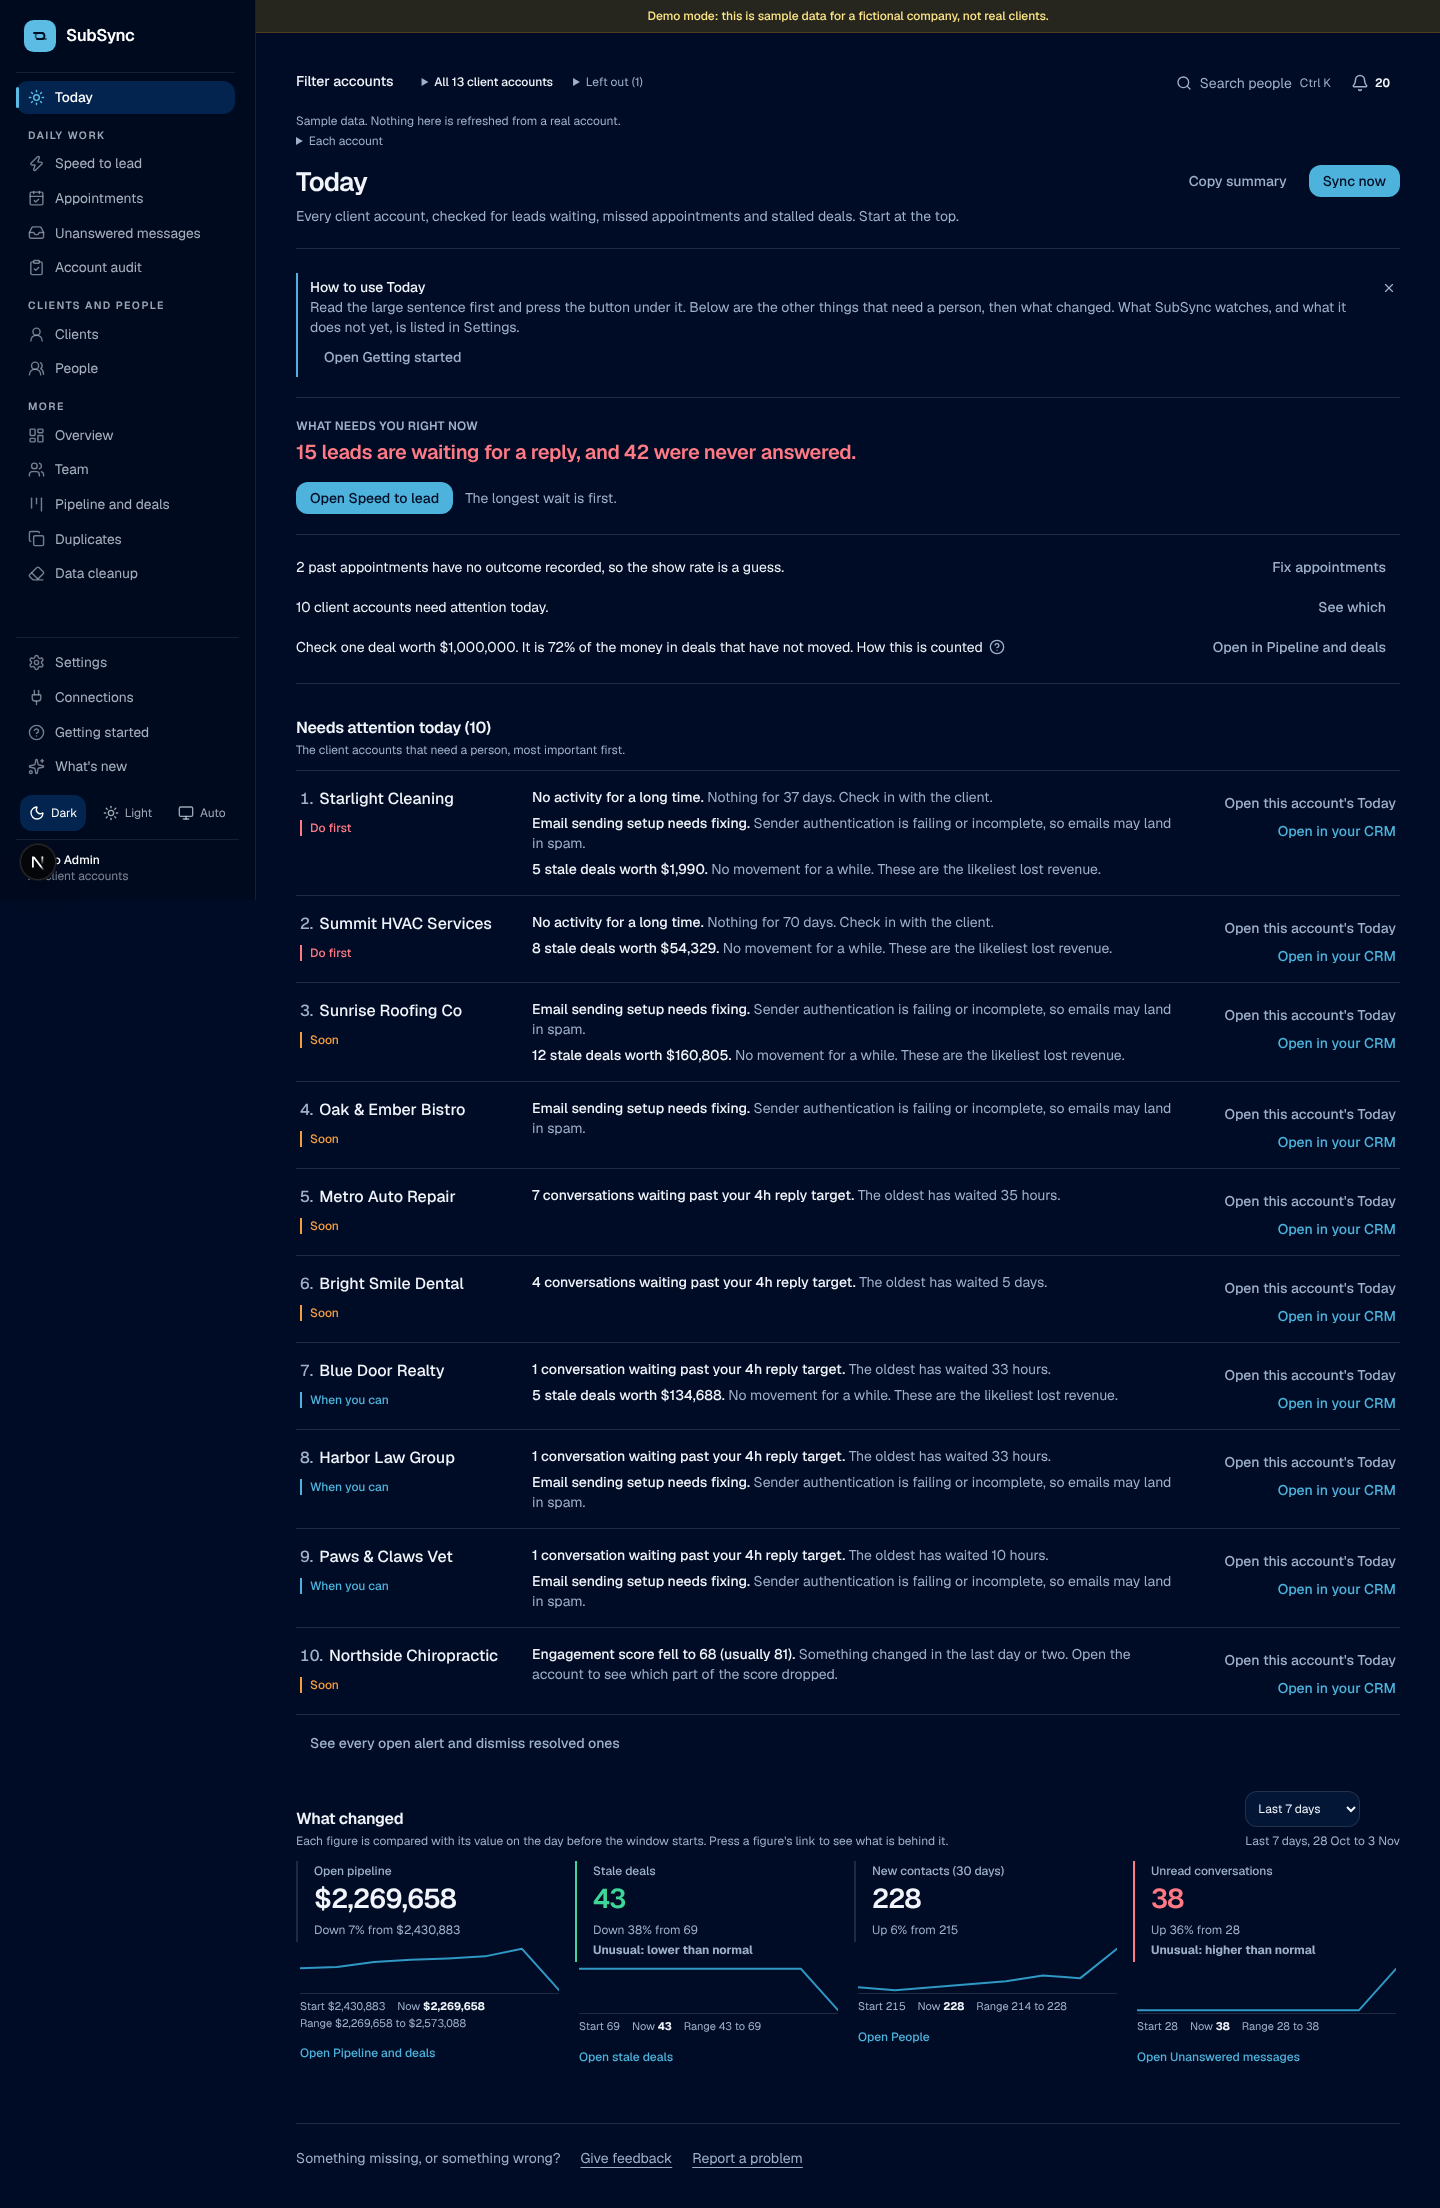
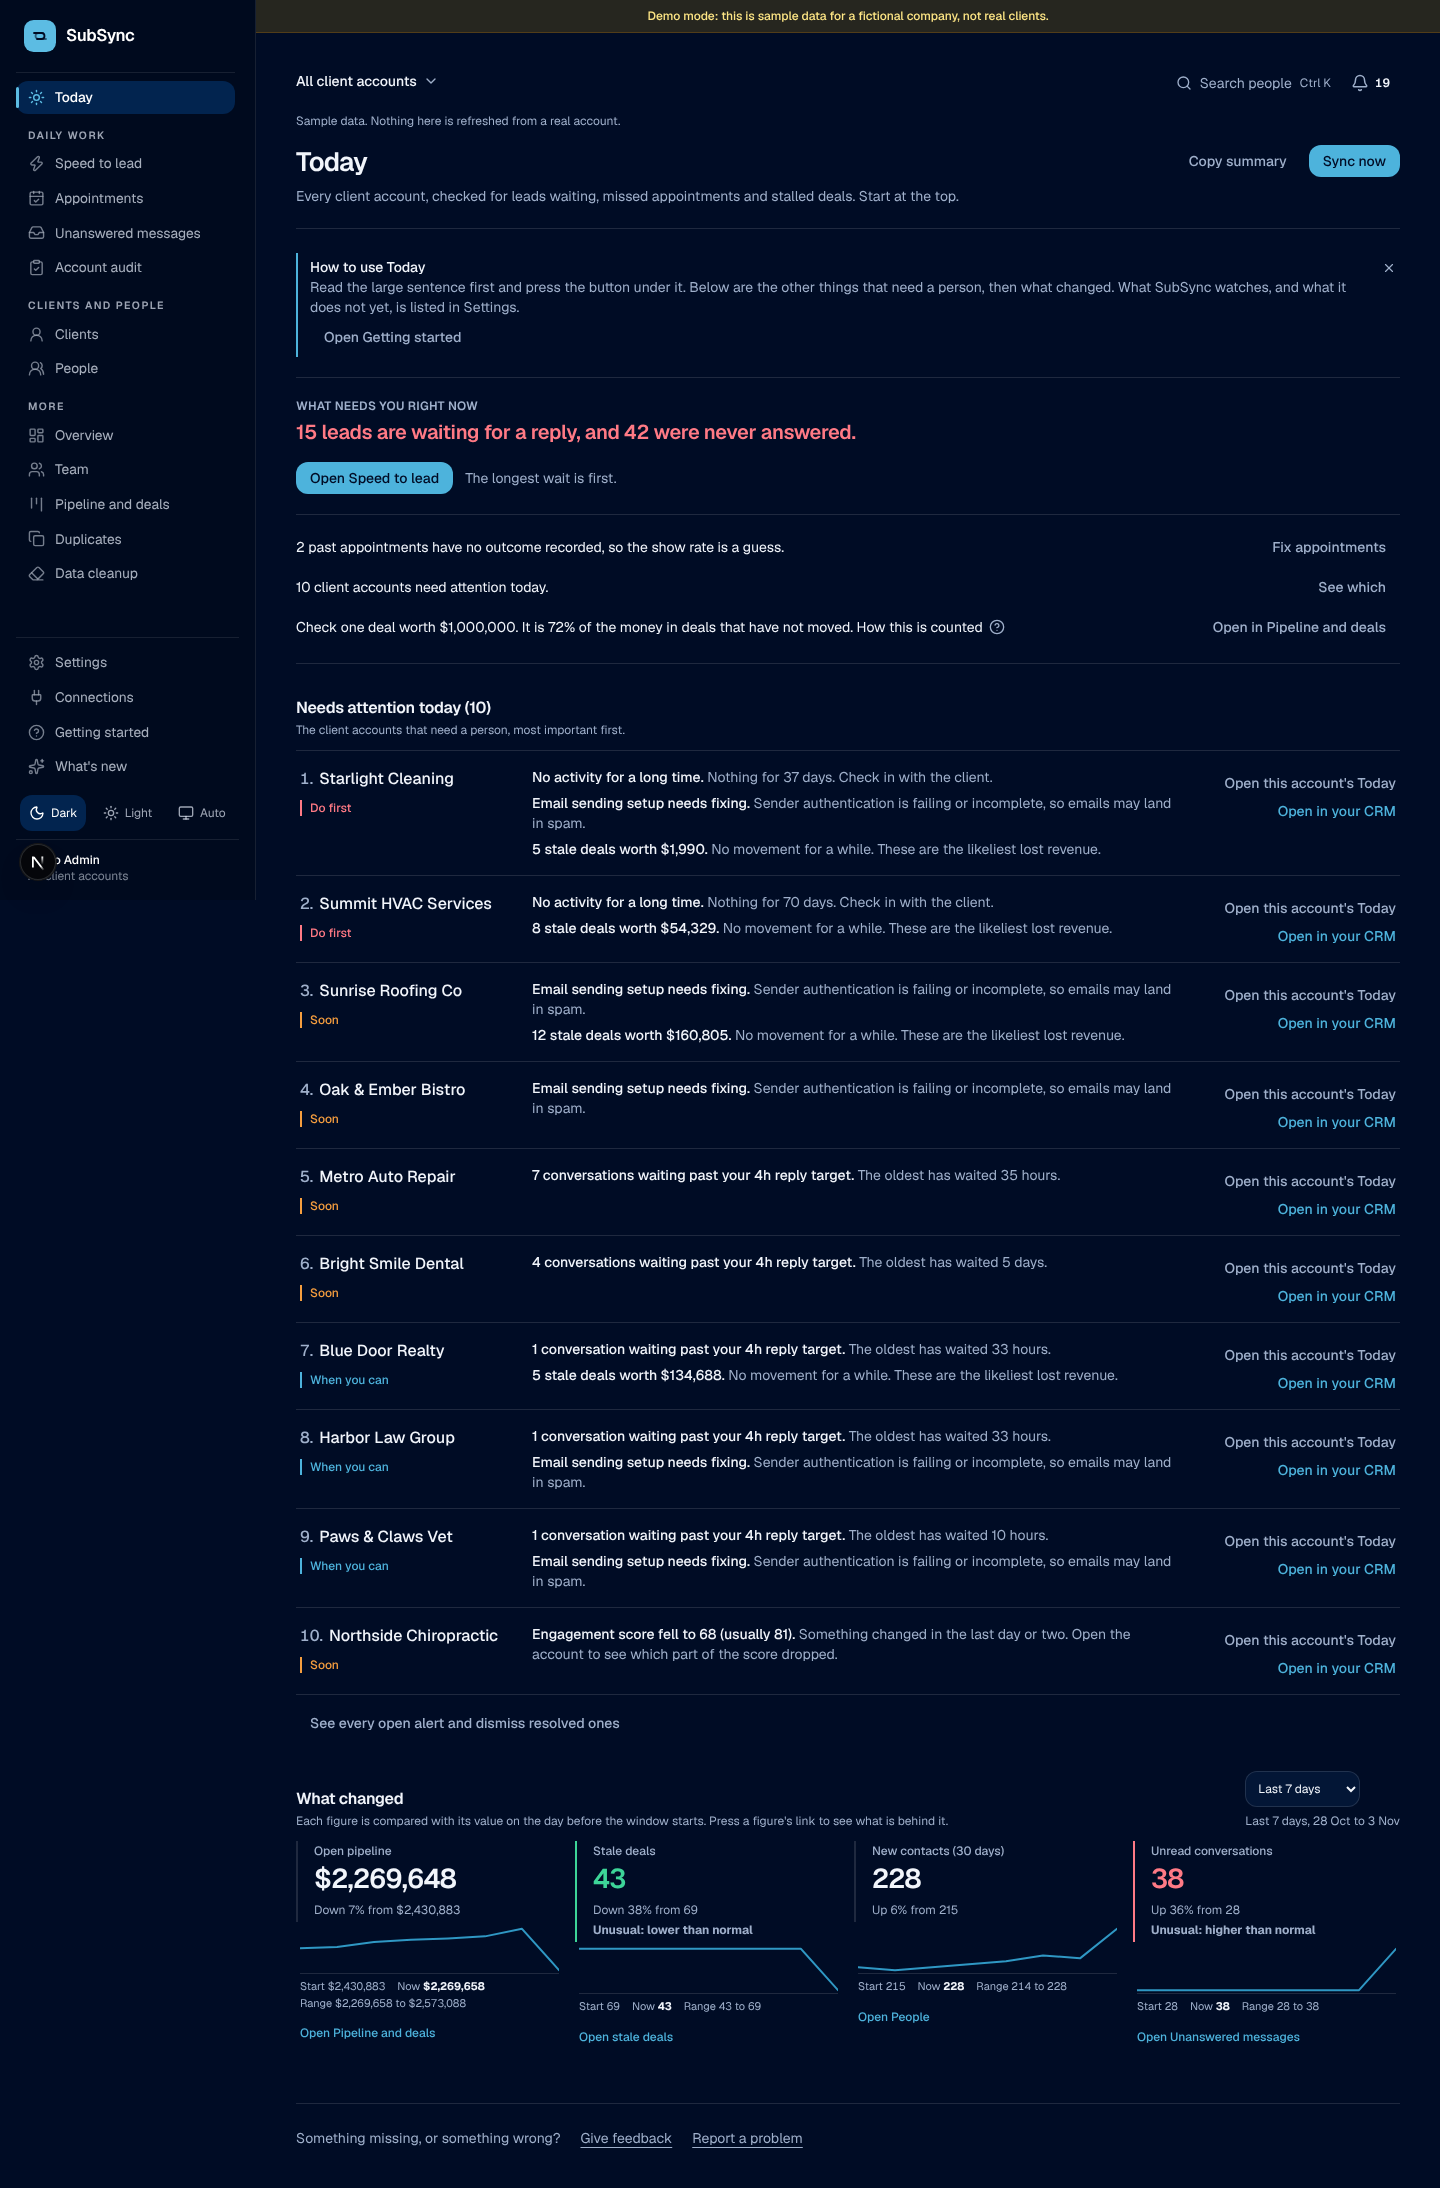
Simplify branch verified: stronger Today picker check; screenshots
Claude-Session: https://claude.ai/code/session_01YASewFVTg1Jmasb9k8W2mA

diff --git a/tests/e2e/d0.spec.ts b/tests/e2e/d0.spec.ts
@@ -133,9 +133,11 @@ test("a filter is carried in the address and survives a reload", async ({ page }
   // The demo company has no test account, so the owner choice stands in for any filter: it goes into the address and the page says what is hidden.
   await drawer.getByLabel("Account owner").selectOption({ index: 1 });
   await expect.poll(() => page.evaluate(() => window.location.hash)).toMatch(/^#speed\?.*owner=/);
+  await drawer.getByTestId("account-picker-summary").click(); // close the picker
   await expect(page.getByTestId("filter-hidden-summary")).toContainText("are shown");
   await page.getByTestId("filter-hidden-summary").getByRole("button", { name: "Show all" }).click();
   await expect.poll(() => page.evaluate(() => window.location.hash)).toBe("#speed");
+  await drawer.getByTestId("account-picker-summary").click(); // More filters stays open from before
   await drawer.getByLabel("Account owner").selectOption({ index: 1 });
   await page.reload();
   await expect(page.getByTestId("account-picker-summary")).toContainText("filters on", { timeout: 60_000 });

diff --git a/tests/e2e/today.spec.ts b/tests/e2e/today.spec.ts
@@ -119,7 +119,8 @@ test("Today for one client account: opened from the all-accounts list, it narrow
   if (inAttention) await page.getByTestId("attention-list").getByRole("button", { name: /Open this account.s Today/ }).first().click();
   else await page.getByTestId("data-list").getByRole("button", { name: first.name as string }).first().click();
   await expect(page.getByTestId("page-subtitle")).toContainText("leads waiting, appointments to fix and deals that stopped moving");
-  await expect(page.getByTestId("account-picker-summary")).not.toContainText("All client accounts");
+  // One account is chosen, so the picker shows that account's name (it used to say "1 of N").
+  await expect(page.getByTestId("account-picker-summary")).toContainText(first.name as string);
   const back = page.getByTestId("back-link");
   await expect(back).toContainText("Back to Today");
   await back.click();
